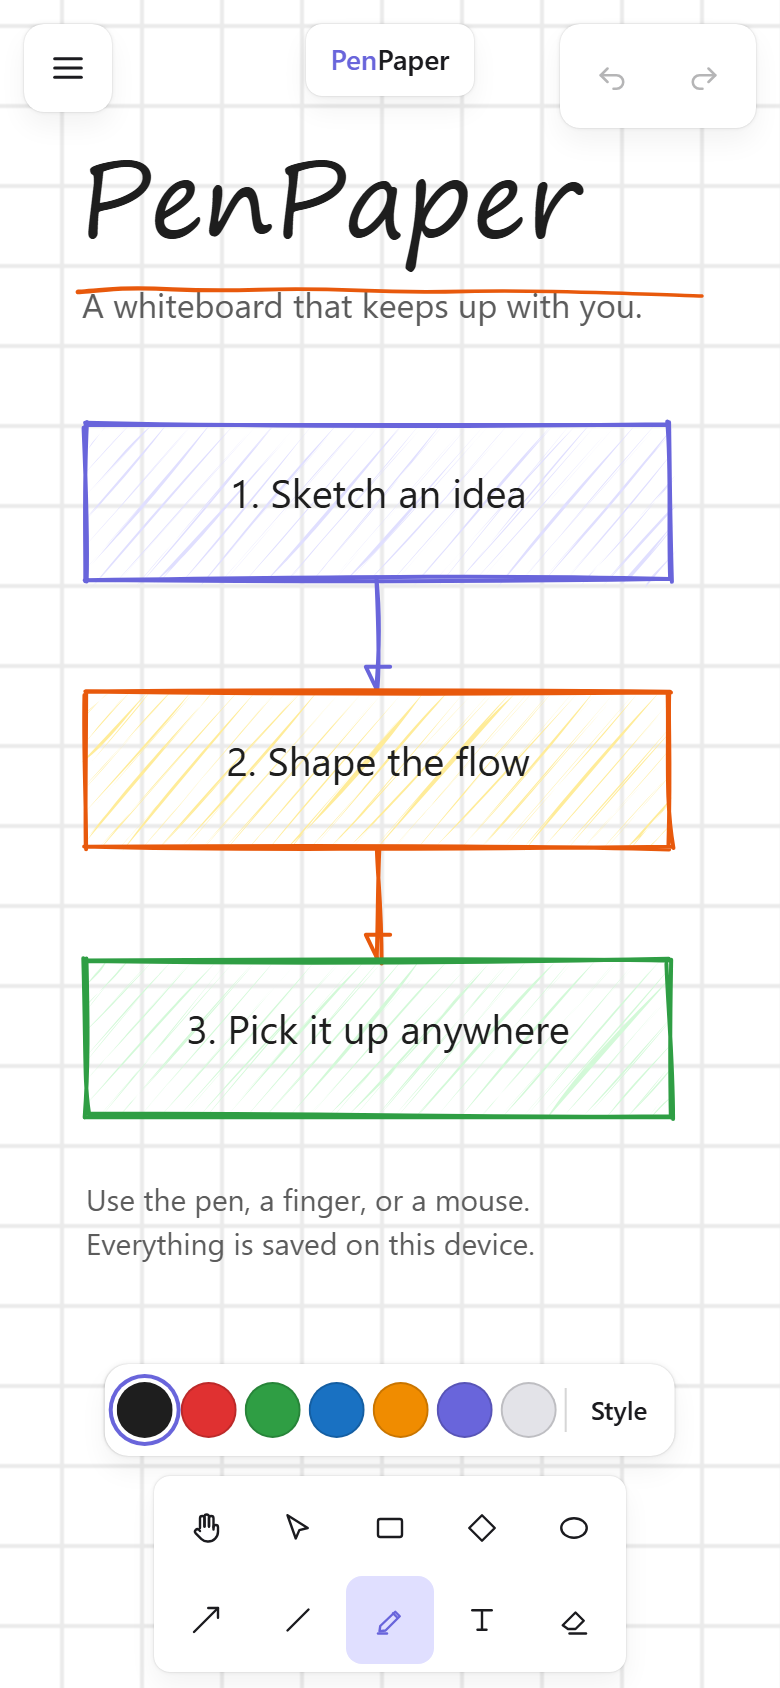
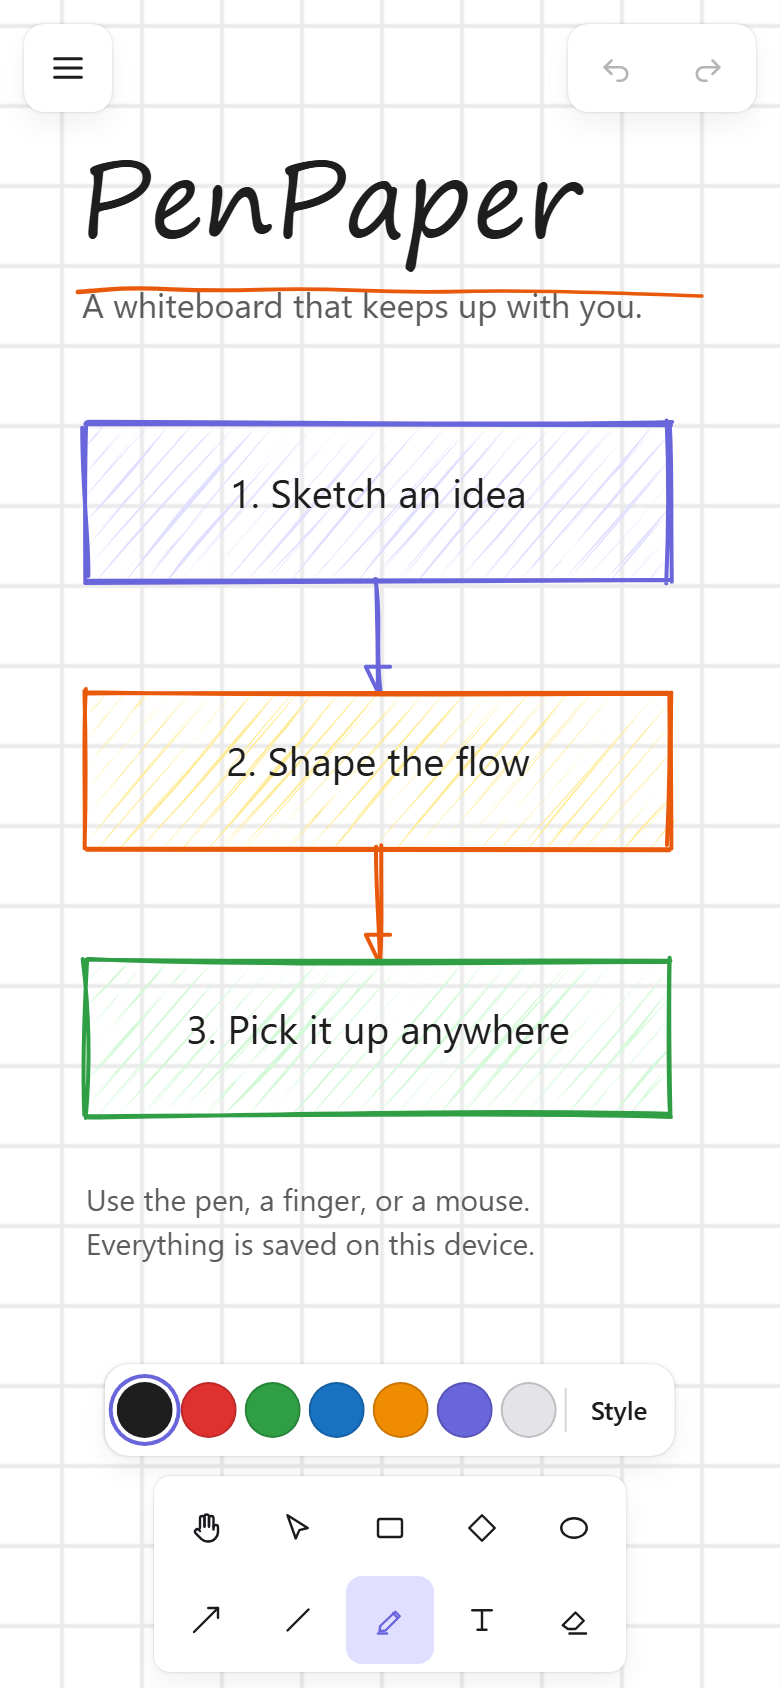
refactor: strip the chrome back to canvas-first floating islands

diff --git a/packages/ui/src/ui.css b/packages/ui/src/ui.css
@@ -150,6 +150,22 @@
   height: 20px;
 }
 
+/* A mouse does not need a 44 px island, and the smaller one lines up with the
+   history island below. Coarse pointers keep the full target. */
+@media (min-width: 768px) {
+  .pp-menu-button {
+    width: 40px;
+    height: 40px;
+  }
+}
+
+@media (pointer: coarse) {
+  .pp-menu-button {
+    width: 44px;
+    height: 44px;
+  }
+}
+
 .pp-menu {
   position: absolute;
   top: calc(100% + 8px);
@@ -377,7 +393,18 @@
   height: 18px;
 }
 
+@media (min-width: 768px) {
+  .pp-history-button {
+    width: 32px;
+    height: 32px;
+  }
+}
+
 @media (pointer: coarse) {
+  .pp-history {
+    padding: 0 2px;
+  }
+
   .pp-history-button {
     width: 44px;
     height: 44px;
@@ -654,12 +681,12 @@
     #ffffff;
 }
 
+/* No track behind the options: Excalidraw's style panel reads as flat text
+   with one tinted choice, not a row of form controls. The faint track added
+   five grey bars to a panel that is already tall. */
 .pp-segment {
   display: flex;
   gap: 2px;
-  padding: 3px;
-  background: var(--surface-low);
-  border-radius: 9px;
 }
 
 .pp-segment button {
@@ -680,15 +707,12 @@
 }
 
 .pp-segment button:hover {
-  background: var(--surface-mid);
+  background: var(--surface-low);
 }
 
 .pp-segment button[aria-pressed="true"] {
   color: var(--primary);
-  background: var(--island-bg);
-  box-shadow:
-    0 1px 2px rgba(0, 0, 0, 0.1),
-    0 0 0 1px rgba(0, 0, 0, 0.04);
+  background: var(--surface-high);
   font-weight: 600;
 }
 

diff --git a/apps/web/components/BoardChrome.tsx b/apps/web/components/BoardChrome.tsx
@@ -106,19 +106,6 @@ export function BoardChrome({
         canRedo={canRedo}
       />
 
-      <header
-        className="pointer-events-none absolute inset-x-0 top-0 z-10 flex justify-center"
-        style={{ paddingTop: "max(0.75rem, env(safe-area-inset-top))" }}
-      >
-        <div
-          className="pointer-events-auto rounded-[var(--radius-island)] px-3 py-2 text-sm font-medium"
-          style={{ background: "var(--island-bg)", boxShadow: "var(--shadow-island)" }}
-        >
-          <span style={{ color: "var(--primary)" }}>Pen</span>
-          <span>Paper</span>
-        </div>
-      </header>
-
       <div className="pp-history" data-testid="history-controls" role="group" aria-label="History">
         <button
           type="button"

diff --git a/docs/ARCHITECTURE.md b/docs/ARCHITECTURE.md
@@ -128,8 +128,12 @@ than 16 px, which stops iOS from zooming the page on focus, and it lifts with
 
 ### Chrome ownership
 
-`BoardChrome` renders three separate islands and owns no board state:
+`BoardChrome` renders only floating islands over the canvas — no title bar and
+no permanent wordmark, the same restraint as excalidraw.com. It owns no board
+state:
 
+- **History** — undo and redo in a two-button island, bottom-left on desktop
+  and top-right on small screens, sized to match the menu island.
 - **Toolbar** — the active tool, mirrored from `BoardScreen`.
 - **Style panel** — `PropertiesPanel` on desktop, `QuickProperties` plus a
   `BottomSheet` on phones. It edits one of two targets: the selected elements,

diff --git a/README.md b/README.md
@@ -39,7 +39,8 @@ network does not.
 - **Responsive chrome** measured against excalidraw.com: a vertical dock on
   desktop, a two-row dock plus a compact content-width style pill on phones, a
   right-side style panel from tablet width up, and a floating style card for
-  the full form on small touch screens. Every coarse-pointer target is at least
+  the full form on small touch screens. There is no title bar or permanent
+  wordmark — the canvas is the page. Every coarse-pointer target is at least
   44 px.
 - **Installable PWA** with offline app shell, manifest, maskable icons, and a
   service worker that serves the board offline after the first visit.
